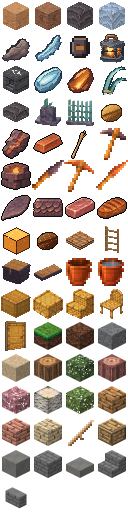
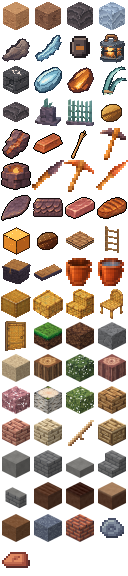
Orvalis em voxel: solo de cultivo e cerâmica do pacote Texturas16px (v0.178.0, E3, ADR 0111)
Seis blocos novos (terra arada seca e úmida, caminho, terra infértil, argila e tijolos) e dois itens sem bloco. As receitas são provisórias porque a enxada, a água do cultivo e a argila no terreno ainda não existem.

Claude-Session: https://claude.ai/code/session_01KGdgoniDf5SwPMM31qtkm2

diff --git a/src/titan/voxel.ts b/src/titan/voxel.ts
@@ -22,9 +22,9 @@ export const REGION_MIN = REGION_LEGACY.min;
 export const REGION_MAX = REGION_LEGACY.max;
 
 /** Ids de bloco (um byte; 0 = ar). */
-export const T = { AIR: 0, SAND: 1, DAMP_SAND: 2, DARK_ROCK: 3, FROST: 4, LAKE: 5, BEDROCK: 6, LANTERN: 7, VEIN_ROCK: 8, VEIN_FROST: 9, WORKBENCH: 10, EMBER: 11, SLAB: 12, WORKBENCH_90: 13, WORKBENCH_180: 14, WORKBENCH_270: 15, SLAB_TOP: 16, SLAB_DOUBLE: 17, MARCO: 18, MARCO_90: 19, MARCO_180: 20, MARCO_270: 21, PAINEL: 22, PAINEL_Z: 23, VEIN_COPPER: 24, BRAZIER: 25, BRAZIER_LIT: 26, CARAPACE: 27, EMBER_VEIN: 28, EMBER_BLOCK: 29, MAT: 30, LADDER: 31, LADDER_90: 32, LADDER_180: 33, LADDER_270: 34, CHEST: 35, CHEST_90: 36, CHEST_180: 37, CHEST_270: 38, BED: 39, BED_90: 40, BED_180: 41, BED_270: 42, BED_HEAD: 43, BED_HEAD_90: 44, BED_HEAD_180: 45, BED_HEAD_270: 46, REED_BLOCK: 47, REED_SLAB: 48, REED_SLAB_TOP: 49, REED_STAIR: 50, REED_STAIR_90: 51, REED_STAIR_180: 52, REED_STAIR_270: 53, REED_CHAIR: 54, REED_CHAIR_90: 55, REED_CHAIR_180: 56, REED_CHAIR_270: 57, DOOR: 58, DOOR_LAST: 89, GRASS: 90, DIRT: 91, STONE: 92, BEACH: 93, LOG_OAK: 94, LEAVES_OAK: 95, LOG_CHERRY: 96, LEAVES_CHERRY: 97, LOG_BIRCH: 98, LEAVES_BIRCH: 99, PLANKS_OAK: 100, PLANKS_CHERRY: 101, PLANKS_BIRCH: 102, CARPENTRY: 103, CARPENTRY_90: 104, CARPENTRY_180: 105, CARPENTRY_270: 106, STONE_SMOOTH: 107, STONE_BRICK: 108, STONE_SLAB: 109, STONE_SLAB_TOP: 110, STONE_STAIR: 111, STONE_STAIR_90: 112, STONE_STAIR_180: 113, STONE_STAIR_270: 114, STONE_WALL: 115, STONE_WALL_LAST: 130 } as const;
+export const T = { AIR: 0, SAND: 1, DAMP_SAND: 2, DARK_ROCK: 3, FROST: 4, LAKE: 5, BEDROCK: 6, LANTERN: 7, VEIN_ROCK: 8, VEIN_FROST: 9, WORKBENCH: 10, EMBER: 11, SLAB: 12, WORKBENCH_90: 13, WORKBENCH_180: 14, WORKBENCH_270: 15, SLAB_TOP: 16, SLAB_DOUBLE: 17, MARCO: 18, MARCO_90: 19, MARCO_180: 20, MARCO_270: 21, PAINEL: 22, PAINEL_Z: 23, VEIN_COPPER: 24, BRAZIER: 25, BRAZIER_LIT: 26, CARAPACE: 27, EMBER_VEIN: 28, EMBER_BLOCK: 29, MAT: 30, LADDER: 31, LADDER_90: 32, LADDER_180: 33, LADDER_270: 34, CHEST: 35, CHEST_90: 36, CHEST_180: 37, CHEST_270: 38, BED: 39, BED_90: 40, BED_180: 41, BED_270: 42, BED_HEAD: 43, BED_HEAD_90: 44, BED_HEAD_180: 45, BED_HEAD_270: 46, REED_BLOCK: 47, REED_SLAB: 48, REED_SLAB_TOP: 49, REED_STAIR: 50, REED_STAIR_90: 51, REED_STAIR_180: 52, REED_STAIR_270: 53, REED_CHAIR: 54, REED_CHAIR_90: 55, REED_CHAIR_180: 56, REED_CHAIR_270: 57, DOOR: 58, DOOR_LAST: 89, GRASS: 90, DIRT: 91, STONE: 92, BEACH: 93, LOG_OAK: 94, LEAVES_OAK: 95, LOG_CHERRY: 96, LEAVES_CHERRY: 97, LOG_BIRCH: 98, LEAVES_BIRCH: 99, PLANKS_OAK: 100, PLANKS_CHERRY: 101, PLANKS_BIRCH: 102, CARPENTRY: 103, CARPENTRY_90: 104, CARPENTRY_180: 105, CARPENTRY_270: 106, STONE_SMOOTH: 107, STONE_BRICK: 108, STONE_SLAB: 109, STONE_SLAB_TOP: 110, STONE_STAIR: 111, STONE_STAIR_90: 112, STONE_STAIR_180: 113, STONE_STAIR_270: 114, STONE_WALL: 115, STONE_WALL_LAST: 130, FARMLAND_DRY: 131, FARMLAND_WET: 132, PATH: 133, DIRT_INFERTILE: 134, CLAY_BLOCK: 135, BRICK_BLOCK: 136 } as const;
 /** Maior id de bloco (o carregamento do save descarta ids acima disto). */
-export const T_MAX = T.STONE_WALL_LAST;
+export const T_MAX = T.BRICK_BLOCK;
 export type TitanBlock = (typeof T)[keyof typeof T];
 
 export const BLOCK_NAMES: Record<number, string> = { 1: 'Areia ocre', 2: 'Areia úmida', 3: 'Rocha escura', 4: 'Gelo fosco', 5: 'Lago escuro', 6: 'Rocha-mãe', 7: 'Lanterna da margem', 8: 'Rocha com veio', 9: 'Gelo com veio', 10: 'Mesa de Trabalho', 11: 'Brasa de âmbar', 12: 'Laje de rocha', 13: 'Mesa de Trabalho', 14: 'Mesa de Trabalho', 15: 'Mesa de Trabalho', 16: 'Laje de rocha', 17: 'Laje dupla de rocha', 18: 'Marco de Margem', 19: 'Marco de Margem', 20: 'Marco de Margem', 21: 'Marco de Margem', 22: 'Painel de Junco', 23: 'Painel de Junco', 24: 'Veio de Cobre de Duna', 25: 'Braseiro de Rocha', 26: 'Braseiro de Rocha (aceso)', 27: 'Revestimento de Carapaça', 28: 'Veio de Âmbar', 29: 'Bloco de Âmbar Compactado', 30: 'Esteira de Junco', 31: 'Escada de Junco', 32: 'Escada de Junco', 33: 'Escada de Junco', 34: 'Escada de Junco', 35: 'Baú de Rocha e Junco', 36: 'Baú de Rocha e Junco', 37: 'Baú de Rocha e Junco', 38: 'Baú de Rocha e Junco', 39: 'Cama de Junco', 40: 'Cama de Junco', 41: 'Cama de Junco', 42: 'Cama de Junco', 43: 'Cama de Junco', 44: 'Cama de Junco', 45: 'Cama de Junco', 46: 'Cama de Junco', 47: 'Bloco de Junco', 48: 'Laje de Junco', 49: 'Laje de Junco', 50: 'Degrau de Junco', 51: 'Degrau de Junco', 52: 'Degrau de Junco', 53: 'Degrau de Junco', 54: 'Cadeira de Junco', 55: 'Cadeira de Junco', 56: 'Cadeira de Junco', 57: 'Cadeira de Junco' };
@@ -44,6 +44,8 @@ export const isCraftingTable = (id: number): boolean => isWorkbench(id) || isCar
 /** Pedra de obra do Orvalis em voxel (ADR 0108): Pedra Lisa, Tijolo de Pedra e a Laje de Pedra (inferior e superior; duas lajes na mesma célula viram a Pedra Lisa). */
 Object.assign(BLOCK_NAMES, { 107: 'Pedra Lisa', 108: 'Tijolo de Pedra', 109: 'Laje de Pedra', 110: 'Laje de Pedra', 111: 'Degrau de Pedra', 112: 'Degrau de Pedra', 113: 'Degrau de Pedra', 114: 'Degrau de Pedra' });
 for (let m = 0; m < 16; m++) BLOCK_NAMES[115 + m] = 'Mureta de Pedra';
+/** Solo de cultivo e cerâmica do Orvalis em voxel (ADR 0111): cubos inteiros. */
+Object.assign(BLOCK_NAMES, { 131: 'Terra Arada Seca', 132: 'Terra Arada Úmida', 133: 'Caminho de Terra', 134: 'Terra Infértil', 135: 'Bloco de Argila', 136: 'Bloco de Tijolos' });
 /** Folhas das árvores do Orvalis (cubo inteiro opaco por enquanto) e toras. */
 export const isLeaves = (id: number): boolean => id === T.LEAVES_OAK || id === T.LEAVES_CHERRY || id === T.LEAVES_BIRCH;
 export const isLog = (id: number): boolean => id === T.LOG_OAK || id === T.LOG_CHERRY || id === T.LOG_BIRCH;
@@ -313,6 +315,12 @@ BLOCK_TILES[T.STONE_SMOOTH] = ot('pedra-lisa');
 BLOCK_TILES[T.STONE_BRICK] = ot('tijolo-pedra');
 BLOCK_TILES[T.STONE_SLAB] = ot('laje-topo', 'laje-face', 'laje-topo'); // a lateral tem 16 × 8 e usa a metade de cima do tile
 BLOCK_TILES[T.STONE_SLAB_TOP] = BLOCK_TILES[T.STONE_SLAB];
+BLOCK_TILES[T.FARMLAND_DRY] = ot('terra-arada-seca-topo', 'terra-arada-seca-lateral', 'terra'); // solo de cultivo e cerâmica (ADR 0111)
+BLOCK_TILES[T.FARMLAND_WET] = ot('terra-arada-umida-topo', 'terra-arada-umida-lateral', 'terra');
+BLOCK_TILES[T.PATH] = ot('caminho-topo', 'caminho-lateral', 'terra');
+BLOCK_TILES[T.DIRT_INFERTILE] = ot('terra-infertil');
+BLOCK_TILES[T.CLAY_BLOCK] = ot('bloco-argila');
+BLOCK_TILES[T.BRICK_BLOCK] = ot('bloco-tijolos');
 for (let t = 0; t < 4; t++) BLOCK_TILES[T.CARPENTRY + t] = [tileIndex('orvalis/mesa-topo'), tileIndex('orvalis/mesa-lateral'), tileIndex('orvalis/tabua-carvalho')]; // a base é de tábuas; a frente tem tile próprio (`tileForFace`)
 // Família do Junco (ADR 0100): o bloco usa a trama nas seis faces; a laje, o topo de 32 × 32 e a lateral de 32 × 16 (metade de cima do tile)
 BLOCK_TILES[T.REED_BLOCK] = faces3('21-bloco-de-junco');

diff --git a/src/titan/items.ts b/src/titan/items.ts
@@ -4,7 +4,7 @@ import { BLOCK_NAMES, isCarpentry, isMarco, isPanel, isWorkbench, T } from './vo
  * Itens do Titã (ADR 0040). O id é o índice do sprite no atlas da hotbar + 1 (`render/art/titan.ts`): a ordem do atlas não depende da ordem dos espaços da barra.
  * Os quatro primeiros coincidem com os ids de bloco `T.SAND … T.FROST`.
  */
-export const Item = { SAND: 1, DAMP_SAND: 2, DARK_ROCK: 3, FROST: 4, ROCK_SHARD: 5, FROST_SHARD: 6, CAPSULE: 7, LANTERN: 8, WORKBENCH: 9, ICE_LENS: 10, EMBER: 11, GLASS_REED: 12, SLAB: 13, MARCO: 14, PAINEL: 15, NOZ: 16, COPPER_SHARD: 17, COPPER_INGOT: 18, DRY_REED: 19, STONE_PICK: 20, BRAZIER: 21, STONE_DAGGER: 22, COPPER_PICK: 23, COPPER_DAGGER: 24, PLATE: 25, CARAPACE: 26, RAW_MEAT: 27, COOKED_MEAT: 28, EMBER_BLOCK: 29, NOZ_TORRADA: 30, ESTEIRA: 31, ESCADA: 32, BAU: 33, CAMA: 34, BALDE: 35, BALDE_CHEIO: 36, BLOCO_JUNCO: 37, LAJE_JUNCO: 38, DEGRAU_JUNCO: 39, CADEIRA_JUNCO: 40, PORTA_JUNCO: 41, GRASS: 42, DIRT: 43, STONE: 44, BEACH: 45, LOG_OAK: 46, LEAVES_OAK: 47, LOG_CHERRY: 48, LEAVES_CHERRY: 49, LOG_BIRCH: 50, LEAVES_BIRCH: 51, TABUA_CARVALHO: 52, TABUA_CEREJEIRA: 53, TABUA_BETULA: 54, HASTE: 55, MESA_CARPINTARIA: 56, PEDRA_LISA: 57, TIJOLO_PEDRA: 58, LAJE_PEDRA: 59, DEGRAU_PEDRA: 60, MURETA_PEDRA: 61 } as const;
+export const Item = { SAND: 1, DAMP_SAND: 2, DARK_ROCK: 3, FROST: 4, ROCK_SHARD: 5, FROST_SHARD: 6, CAPSULE: 7, LANTERN: 8, WORKBENCH: 9, ICE_LENS: 10, EMBER: 11, GLASS_REED: 12, SLAB: 13, MARCO: 14, PAINEL: 15, NOZ: 16, COPPER_SHARD: 17, COPPER_INGOT: 18, DRY_REED: 19, STONE_PICK: 20, BRAZIER: 21, STONE_DAGGER: 22, COPPER_PICK: 23, COPPER_DAGGER: 24, PLATE: 25, CARAPACE: 26, RAW_MEAT: 27, COOKED_MEAT: 28, EMBER_BLOCK: 29, NOZ_TORRADA: 30, ESTEIRA: 31, ESCADA: 32, BAU: 33, CAMA: 34, BALDE: 35, BALDE_CHEIO: 36, BLOCO_JUNCO: 37, LAJE_JUNCO: 38, DEGRAU_JUNCO: 39, CADEIRA_JUNCO: 40, PORTA_JUNCO: 41, GRASS: 42, DIRT: 43, STONE: 44, BEACH: 45, LOG_OAK: 46, LEAVES_OAK: 47, LOG_CHERRY: 48, LEAVES_CHERRY: 49, LOG_BIRCH: 50, LEAVES_BIRCH: 51, TABUA_CARVALHO: 52, TABUA_CEREJEIRA: 53, TABUA_BETULA: 54, HASTE: 55, MESA_CARPINTARIA: 56, PEDRA_LISA: 57, TIJOLO_PEDRA: 58, LAJE_PEDRA: 59, DEGRAU_PEDRA: 60, MURETA_PEDRA: 61, TERRA_ARADA_SECA: 62, TERRA_ARADA_UMIDA: 63, CAMINHO_TERRA: 64, TERRA_INFERTIL: 65, BLOCO_ARGILA: 66, BLOCO_TIJOLOS: 67, BOLA_ARGILA: 68, TIJOLO: 69 } as const;
 export type ItemId = (typeof Item)[keyof typeof Item];
 
 export const ITEM_NAMES: Record<number, string> = {
@@ -12,15 +12,16 @@ export const ITEM_NAMES: Record<number, string> = {
   5: 'Fragmento de rocha', 6: 'Fragmento de gelo', 7: 'Cápsula de luz', 8: 'Lanterna da margem', 9: 'Mesa de Trabalho', 10: 'Lente de Gelo', 11: 'Brasa de âmbar', 12: 'Junco de vidro', 13: 'Laje de rocha', 14: 'Marco de Margem', 15: 'Painel de Junco', 16: 'Noz de Duna', 17: 'Fragmento de Cobre de Duna', 18: 'Lingote de Cobre de Duna', 19: 'Haste Seca de Junco', 20: 'Picareta de Rocha', 21: 'Braseiro de Rocha', 22: 'Adaga de Rocha', 23: 'Picareta de Cobre', 24: 'Adaga de Cobre', 25: 'Placa de Carapaça', 26: 'Revestimento de Carapaça', 27: 'Carne Crua de Farejador', 28: 'Carne Assada de Farejador', 29: 'Bloco de Âmbar Compactado', 30: 'Noz Torrada', 31: 'Esteira de Junco', 32: 'Escada de Junco', 33: 'Baú de Rocha e Junco', 34: 'Cama de Junco', 35: 'Balde de Cobre', 36: 'Balde de Cobre (cheio)', 37: 'Bloco de Junco', 38: 'Laje de Junco', 39: 'Degrau de Junco', 40: 'Cadeira de Junco', 41: 'Porta de Junco',
 };
 /** Itens-bloco do Orvalis em voxel (ADR 0105, ids 42–51): o item é o próprio bloco (mesma ordem de `T.GRASS … T.LEAVES_BIRCH`). */
-export const ORVALIS_ITEM_BLOCKS: Readonly<Record<number, number>> = { [Item.GRASS]: T.GRASS, [Item.DIRT]: T.DIRT, [Item.STONE]: T.STONE, [Item.BEACH]: T.BEACH, [Item.LOG_OAK]: T.LOG_OAK, [Item.LEAVES_OAK]: T.LEAVES_OAK, [Item.LOG_CHERRY]: T.LOG_CHERRY, [Item.LEAVES_CHERRY]: T.LEAVES_CHERRY, [Item.LOG_BIRCH]: T.LOG_BIRCH, [Item.LEAVES_BIRCH]: T.LEAVES_BIRCH, [Item.TABUA_CARVALHO]: T.PLANKS_OAK, [Item.TABUA_CEREJEIRA]: T.PLANKS_CHERRY, [Item.TABUA_BETULA]: T.PLANKS_BIRCH, [Item.MESA_CARPINTARIA]: T.CARPENTRY, [Item.PEDRA_LISA]: T.STONE_SMOOTH, [Item.TIJOLO_PEDRA]: T.STONE_BRICK, [Item.LAJE_PEDRA]: T.STONE_SLAB };
+export const ORVALIS_ITEM_BLOCKS: Readonly<Record<number, number>> = { [Item.GRASS]: T.GRASS, [Item.DIRT]: T.DIRT, [Item.STONE]: T.STONE, [Item.BEACH]: T.BEACH, [Item.LOG_OAK]: T.LOG_OAK, [Item.LEAVES_OAK]: T.LEAVES_OAK, [Item.LOG_CHERRY]: T.LOG_CHERRY, [Item.LEAVES_CHERRY]: T.LEAVES_CHERRY, [Item.LOG_BIRCH]: T.LOG_BIRCH, [Item.LEAVES_BIRCH]: T.LEAVES_BIRCH, [Item.TABUA_CARVALHO]: T.PLANKS_OAK, [Item.TABUA_CEREJEIRA]: T.PLANKS_CHERRY, [Item.TABUA_BETULA]: T.PLANKS_BIRCH, [Item.MESA_CARPINTARIA]: T.CARPENTRY, [Item.PEDRA_LISA]: T.STONE_SMOOTH, [Item.TIJOLO_PEDRA]: T.STONE_BRICK, [Item.LAJE_PEDRA]: T.STONE_SLAB, [Item.TERRA_ARADA_SECA]: T.FARMLAND_DRY, [Item.TERRA_ARADA_UMIDA]: T.FARMLAND_WET, [Item.CAMINHO_TERRA]: T.PATH, [Item.TERRA_INFERTIL]: T.DIRT_INFERTILE, [Item.BLOCO_ARGILA]: T.CLAY_BLOCK, [Item.BLOCO_TIJOLOS]: T.BRICK_BLOCK };
 const ORVALIS_BLOCK_ITEMS: Readonly<Record<number, number>> = Object.fromEntries(Object.entries(ORVALIS_ITEM_BLOCKS).map(([item, block]) => [block, Number(item)]));
 for (const [item, block] of Object.entries(ORVALIS_ITEM_BLOCKS)) ITEM_NAMES[Number(item)] = BLOCK_NAMES[block];
+ITEM_NAMES[Item.BOLA_ARGILA] = 'Bola de Argila'; ITEM_NAMES[Item.TIJOLO] = 'Tijolo'; // itens sem bloco (ADR 0111)
 ITEM_NAMES[Item.MURETA_PEDRA] = 'Mureta de Pedra'; // a conexão vem dos vizinhos (ADR 0110)
 ITEM_NAMES[Item.DEGRAU_PEDRA] = 'Degrau de Pedra'; // sem entrada em ORVALIS_ITEM_BLOCKS: o giro vem do olhar (ADR 0109)
 ITEM_NAMES[Item.HASTE] = 'Haste de Madeira'; // item sem bloco (ADR 0107)
 /** Pilhas: blocos, fragmentos, lente e brasa até 64; cápsula (legada, id reservado), lanterna e mesa até 1 (a mesa 1 por espaço: é uma peça grande). */
 export const maxStack = (item: number): number => (item === Item.CAPSULE || item === Item.LANTERN || item === Item.WORKBENCH || isBucket(item) || isTool(item) ? 1 : 64);
-export const isItem = (n: unknown): n is ItemId => Number.isInteger(n) && (n as number) >= 1 && (n as number) <= 61;
+export const isItem = (n: unknown): n is ItemId => Number.isInteger(n) && (n as number) >= 1 && (n as number) <= 69;
 /** Balde de Cobre (ADR 0091): vazio recolhe uma célula do lago, cheio a despeja. Pergunte aqui, nunca compare ids soltos. */
 export const isBucket = (item: number | undefined | null): boolean => item === Item.BALDE || item === Item.BALDE_CHEIO;
 

diff --git a/src/titan/orvalis/solo.test.ts b/src/titan/orvalis/solo.test.ts
@@ -1,0 +1,75 @@
+import { describe, expect, it } from 'vitest';
+import { breakOrCollect, placeFromSlot } from '../actions';
+import { breakTotalMs } from '../breaking';
+import { sweep } from '../dropTestUtil';
+import { BAG, HOTBAR } from '../inventory';
+import { blockOfItem, isItem, Item, ITEM_NAMES, itemOfBlock } from '../items';
+import { craft, recipeById } from '../recipes';
+import { MemoryTitanStorage } from '../save';
+import { openSession } from '../session';
+import { surfaceOf } from '../sounds';
+import { BLOCK_NAMES, isFull, isSolid, T, tileFor } from '../voxel';
+import { ORVALIS_GENERATOR_VERSION, OrvalisGenerator, orvalisGeneratorFor } from './generator';
+
+/** Solo de cultivo e cerâmica do Orvalis em voxel (ADR 0111): cubos inteiros e receitas provisórias. */
+const open = () => openSession(new MemoryTitanStorage(), 42, () => 1, orvalisGeneratorFor, ORVALIS_GENERATOR_VERSION, (s, v) => new OrvalisGenerator(s, v));
+const slotOf = (s: Awaited<ReturnType<typeof open>>, item: number): number => [...Array(HOTBAR + BAG).keys()].find((i) => s.inventory.get(i)?.item === item) ?? -1;
+const PAIRS: ReadonlyArray<[number, number, string]> = [
+  [Item.TERRA_ARADA_SECA, T.FARMLAND_DRY, 'Terra Arada Seca'], [Item.TERRA_ARADA_UMIDA, T.FARMLAND_WET, 'Terra Arada Úmida'], [Item.CAMINHO_TERRA, T.PATH, 'Caminho de Terra'],
+  [Item.TERRA_INFERTIL, T.DIRT_INFERTILE, 'Terra Infértil'], [Item.BLOCO_ARGILA, T.CLAY_BLOCK, 'Bloco de Argila'], [Item.BLOCO_TIJOLOS, T.BRICK_BLOCK, 'Bloco de Tijolos'],
+];
+
+describe('solo de cultivo e cerâmica (ADR 0111)', () => {
+  it('ids 131–136 e itens 62–67 vão e voltam, com nome, cubo inteiro e tile próprio; 68 e 69 são itens sem bloco', () => {
+    expect(T.FARMLAND_DRY).toBe(131); expect(T.BRICK_BLOCK).toBe(136);
+    for (const [item, block, name] of PAIRS) {
+      expect(isItem(item)).toBe(true); expect(blockOfItem(item)).toBe(block); expect(itemOfBlock(block)).toBe(item);
+      expect(ITEM_NAMES[item]).toBe(name); expect(BLOCK_NAMES[block]).toBe(name);
+      expect(isSolid(block) && isFull(block)).toBe(true);
+      expect(tileFor(block, 'top')).toBeGreaterThanOrEqual(73); // tiles novos no fim do tiles.json
+    }
+    for (const item of [Item.BOLA_ARGILA, Item.TIJOLO]) { expect(isItem(item)).toBe(true); expect(blockOfItem(item)).toBeNull(); }
+    expect(ITEM_NAMES[Item.BOLA_ARGILA]).toBe('Bola de Argila'); expect(ITEM_NAMES[Item.TIJOLO]).toBe('Tijolo');
+    expect(isItem(69) && !isItem(70)).toBe(true);
+    // a arada e o caminho têm topo e lateral próprios; a infértil e os blocos de cerâmica, o mesmo tile nas faces
+    for (const b of [T.FARMLAND_DRY, T.FARMLAND_WET, T.PATH]) expect(tileFor(b, 'top')).not.toBe(tileFor(b, 'side'));
+    expect(tileFor(T.FARMLAND_DRY, 'top')).not.toBe(tileFor(T.FARMLAND_WET, 'top'));
+    for (const b of [T.DIRT_INFERTILE, T.CLAY_BLOCK, T.BRICK_BLOCK]) expect(tileFor(b, 'top')).toBe(tileFor(b, 'side'));
+  });
+
+  it('tempos e sons: solo e argila cedem como a terra; tijolos como a pedra', () => {
+    const sand = breakTotalMs('block', T.DIRT);
+    for (const b of [T.FARMLAND_DRY, T.FARMLAND_WET, T.PATH, T.DIRT_INFERTILE, T.CLAY_BLOCK]) { expect(breakTotalMs('block', b)).toBe(sand); expect(surfaceOf(b)).toBe('sand'); }
+    expect(breakTotalMs('block', T.BRICK_BLOCK)).toBe(breakTotalMs('block', T.STONE_BRICK)); expect(surfaceOf(T.BRICK_BLOCK)).toBe('rock');
+  });
+
+  it('receitas provisórias (mesa, só no Orvalis): terra → arada/caminho; arada seca → úmida; terra + areia → infértil; argila → tijolo → blocos', async () => {
+    const s = await open();
+    const inv = s.inventory;
+    inv.add(Item.DIRT, 8); inv.add(Item.BEACH, 4);
+    const make = (id: string): void => { expect(recipeById(id)!.world).toBe('orvalis'); expect(craft(inv, recipeById(id)!, 'workbench').ok).toBe(true); };
+    make('terra-arada-seca'); expect(inv.total(Item.TERRA_ARADA_SECA)).toBe(1);
+    make('terra-arada-umida'); expect(inv.total(Item.TERRA_ARADA_UMIDA)).toBe(1); expect(inv.total(Item.TERRA_ARADA_SECA)).toBe(0);
+    make('caminho-terra'); expect(inv.total(Item.CAMINHO_TERRA)).toBe(1);
+    make('terra-infertil'); expect(inv.total(Item.TERRA_INFERTIL)).toBe(2);
+    make('bola-argila'); make('bola-argila'); expect(inv.total(Item.BOLA_ARGILA)).toBe(4); expect(inv.total(Item.DIRT)).toBe(1);
+    make('bloco-argila'); expect(inv.total(Item.BLOCO_ARGILA)).toBe(1); expect(inv.total(Item.BOLA_ARGILA)).toBe(0);
+    inv.add(Item.BOLA_ARGILA, 4);
+    for (let i = 0; i < 4; i++) make('tijolo');
+    expect(inv.total(Item.TIJOLO)).toBe(4);
+    make('bloco-tijolos'); expect(inv.total(Item.BLOCO_TIJOLOS)).toBe(1);
+    expect(craft(inv, recipeById('tijolo')!, null)).toEqual({ ok: false, reason: 'station' });
+  });
+
+  it('no jogo: coloca e quebra cada bloco devolvendo o próprio item', async () => {
+    const s = await open(), a = s.volume.gen.arrival, cx = Math.floor(a.x) + 3, cz = Math.floor(a.z);
+    for (const [i, [item, block]] of PAIRS.entries()) {
+      s.inventory.add(item, 1);
+      const x = cx + i;
+      expect(placeFromSlot(s, { x, y: a.y - 1, z: cz, nx: 0, ny: 1, nz: 0 }, slotOf(s, item)).ok).toBe(true);
+      expect(s.volume.get(x, a.y, cz)).toBe(block);
+      expect(breakOrCollect(s, { x, y: a.y, z: cz, nx: 0, ny: 1, nz: 0 }).ok).toBe(true);
+      sweep(s); expect(s.inventory.total(item)).toBe(1);
+    }
+  });
+});

diff --git a/src/titan/titan.css b/src/titan/titan.css
@@ -28,7 +28,7 @@ body.titan #world { position: fixed; inset: 0; width: 100%; height: 100%; displa
 .titan-hurt { position: absolute; inset: 0; opacity: 0; pointer-events: none; background: radial-gradient(ellipse at center, rgba(150, 24, 24, 0) 38%, rgba(150, 24, 24, 0.6) 100%); }
 .titan-hurt.on { animation: titan-hurt 0.4s ease-out; }
 @keyframes titan-hurt { from { opacity: 1; } to { opacity: 0; } }
-.titan-icon { display: block; width: var(--ic); height: var(--ic); background-size: calc(var(--ic) * 4) calc(var(--ic) * 16); image-rendering: pixelated; pointer-events: none; }
+.titan-icon { display: block; width: var(--ic); height: var(--ic); background-size: calc(var(--ic) * 4) calc(var(--ic) * 18); image-rendering: pixelated; pointer-events: none; }
 .titan-slot .key { position: absolute; top: 2px; left: 3px; font: 700 10px ui-monospace, monospace; color: #f2cc93; text-shadow: 1px 1px #171410; pointer-events: none; }
 .titan-slot .count { position: absolute; right: 3px; bottom: 1px; font: 700 11px ui-monospace, monospace; font-style: normal; color: #fff3df; text-shadow: 1px 1px #171410; pointer-events: none; }
 .titan-craft { display: grid; gap: 6px; max-width: 200px; }
@@ -77,7 +77,7 @@ body.titan-aim-finger .titan-cross { display: none; } /* mira no dedo: sem cruze
 /* Bolsa e livro de receitas (ADR 0047): hotbar de 9 com ☰ fora dos espaços; grupos | receitas | grade de fabricação e item final (a bolsa é o último grupo) */
 .titan-hotbar { width: var(--hbw); box-sizing: border-box; justify-content: space-between; }
 .titan-hbmenu { position: absolute; left: calc(50% + var(--hbw) / 2 + 8px); bottom: var(--hbb); width: calc(var(--slot) + 14px); height: calc(var(--slot) + 14px); padding: 0; font-size: 22px; line-height: 1; pointer-events: auto; }
-.titan-icon.md { display: block; flex: none; width: var(--icm); height: var(--icm); background-size: calc(var(--icm) * 4) calc(var(--icm) * 16); }
+.titan-icon.md { display: block; flex: none; width: var(--icm); height: var(--icm); background-size: calc(var(--icm) * 4) calc(var(--icm) * 18); }
 .titan-panel { position: absolute; z-index: 5; left: 50%; transform: translateX(-50%); width: min(calc(100vw - 16px), 724px); box-sizing: border-box; bottom: calc(var(--hbb) + var(--slot) + 14px + 5px);
   height: min(calc(100vh - var(--hbb) - var(--slot) - 14px - 5px - max(6px, env(safe-area-inset-top))), 420px);
   display: flex; flex-direction: column; padding: 5px; overflow: hidden; background: #171c20f7; border: 1px solid #765943; border-radius: 6px; pointer-events: auto; touch-action: none; }
@@ -170,7 +170,7 @@ body.titan input { user-select: text; -webkit-user-select: text; }
 .titan-furnace .titan-fcol { display: inline-flex; flex-direction: column; align-items: center; gap: 3px; min-width: 0; }
 .titan-furnace .flabel { color: #cdb89a; font-size: 11px; white-space: nowrap; }
 .titan-furnace .titan-fslot { width: var(--fsz); height: var(--fsz); border-width: 2px; }
-.titan-furnace .titan-fslot .titan-icon { width: var(--icm); height: var(--icm); background-size: calc(var(--icm) * 4) calc(var(--icm) * 16); }
+.titan-furnace .titan-fslot .titan-icon { width: var(--icm); height: var(--icm); background-size: calc(var(--icm) * 4) calc(var(--icm) * 18); }
 .titan-furnace .titan-fslot .count { font-size: 12px; right: 4px; bottom: 2px; }
 .titan-furnace .titan-fslot.out { --icm: 64px; width: var(--fbig); height: var(--fbig); } /* o resultado em escala 2× (inteira) */
 .titan-furnace .titan-fslot.out .count { font-size: 14px; right: 5px; bottom: 3px; }
@@ -187,7 +187,7 @@ body.titan input { user-select: text; -webkit-user-select: text; }
 /* Bolsa e livro de receitas (ADR 0047): hotbar de 9 com ☰ fora dos espaços; grupos | receitas | grade de fabricação e item final (a bolsa é o último grupo) */
 .titan-hotbar { width: var(--hbw); box-sizing: border-box; justify-content: space-between; }
 .titan-hbmenu { position: absolute; left: calc(50% + var(--hbw) / 2 + 8px); bottom: var(--hbb); width: calc(var(--slot) + 14px); height: calc(var(--slot) + 14px); padding: 0; font-size: 22px; line-height: 1; pointer-events: auto; }
-.titan-icon.md { display: block; flex: none; width: var(--icm); height: var(--icm); background-size: calc(var(--icm) * 4) calc(var(--icm) * 16); }
+.titan-icon.md { display: block; flex: none; width: var(--icm); height: var(--icm); background-size: calc(var(--icm) * 4) calc(var(--icm) * 18); }
 .titan-panel { position: absolute; z-index: 5; left: 50%; transform: translateX(-50%); width: min(calc(100vw - 16px), 724px); box-sizing: border-box; bottom: calc(var(--hbb) + var(--slot) + 14px + 5px);
   height: min(calc(100vh - var(--hbb) - var(--slot) - 14px - 5px - max(6px, env(safe-area-inset-top))), 420px);
   display: flex; flex-direction: column; padding: 5px; overflow: hidden; background: #171c20f7; border: 1px solid #765943; border-radius: 6px; pointer-events: auto; touch-action: none; }

diff --git a/src/titan/recipes.ts b/src/titan/recipes.ts
@@ -58,6 +58,15 @@ export const RECIPES: readonly Recipe[] = [
   { id: 'tijolo-pedra', name: 'Tijolo de Pedra', group: 'construcao', result: { item: Item.TIJOLO_PEDRA, count: 4 }, ingredients: [{ item: Item.STONE, count: 4 }], station: 'workbench', world: 'orvalis' },
   { id: 'degrau-pedra', name: 'Degrau de Pedra', group: 'construcao', result: { item: Item.DEGRAU_PEDRA, count: 4 }, ingredients: [{ item: Item.PEDRA_LISA, count: 3 }], station: 'workbench', world: 'orvalis' },
   { id: 'mureta-pedra', name: 'Mureta de Pedra', group: 'construcao', result: { item: Item.MURETA_PEDRA, count: 6 }, ingredients: [{ item: Item.PEDRA_LISA, count: 6 }], station: 'workbench', world: 'orvalis' },
+  // Solo e cerâmica do Orvalis em voxel (ADR 0111): receitas PROVISÓRIAS até existirem a enxada/pá (E4), a água do cultivo (E5), a argila no terreno e a fundição
+  { id: 'terra-arada-seca', name: 'Terra Arada Seca', group: 'construcao', result: { item: Item.TERRA_ARADA_SECA, count: 1 }, ingredients: [{ item: Item.DIRT, count: 1 }], station: 'workbench', world: 'orvalis' },
+  { id: 'terra-arada-umida', name: 'Terra Arada Úmida', group: 'construcao', result: { item: Item.TERRA_ARADA_UMIDA, count: 1 }, ingredients: [{ item: Item.TERRA_ARADA_SECA, count: 1 }], station: 'workbench', world: 'orvalis' },
+  { id: 'caminho-terra', name: 'Caminho de Terra', group: 'construcao', result: { item: Item.CAMINHO_TERRA, count: 1 }, ingredients: [{ item: Item.DIRT, count: 1 }], station: 'workbench', world: 'orvalis' },
+  { id: 'terra-infertil', name: 'Terra Infértil', group: 'construcao', result: { item: Item.TERRA_INFERTIL, count: 2 }, ingredients: [{ item: Item.DIRT, count: 1 }, { item: Item.BEACH, count: 1 }], station: 'workbench', world: 'orvalis' },
+  { id: 'bola-argila', name: 'Bola de Argila', group: 'materiais', result: { item: Item.BOLA_ARGILA, count: 2 }, ingredients: [{ item: Item.DIRT, count: 2 }, { item: Item.BEACH, count: 1 }], station: 'workbench', world: 'orvalis' },
+  { id: 'tijolo', name: 'Tijolo', group: 'materiais', result: { item: Item.TIJOLO, count: 1 }, ingredients: [{ item: Item.BOLA_ARGILA, count: 1 }], station: 'workbench', world: 'orvalis' },
+  { id: 'bloco-argila', name: 'Bloco de Argila', group: 'construcao', result: { item: Item.BLOCO_ARGILA, count: 1 }, ingredients: [{ item: Item.BOLA_ARGILA, count: 4 }], station: 'workbench', world: 'orvalis' },
+  { id: 'bloco-tijolos', name: 'Bloco de Tijolos', group: 'construcao', result: { item: Item.BLOCO_TIJOLOS, count: 1 }, ingredients: [{ item: Item.TIJOLO, count: 4 }], station: 'workbench', world: 'orvalis' },
   { id: 'laje-pedra', name: 'Laje de Pedra', group: 'construcao', result: { item: Item.LAJE_PEDRA, count: 6 }, ingredients: [{ item: Item.PEDRA_LISA, count: 3 }], station: 'workbench', world: 'orvalis' },
 ];
 export const recipeById = (id: string): Recipe | undefined => RECIPES.find((r) => r.id === id);

diff --git a/src/titan/orvalis/pedraObra.test.ts b/src/titan/orvalis/pedraObra.test.ts
@@ -38,7 +38,7 @@ describe('pedra de obra (ADR 0108)', () => {
     expect(blockOfItem(Item.TIJOLO_PEDRA)).toBe(T.STONE_BRICK); expect(itemOfBlock(T.STONE_BRICK)).toBe(Item.TIJOLO_PEDRA);
     expect(blockOfItem(Item.LAJE_PEDRA)).toBe(T.STONE_SLAB); expect(itemOfBlock(T.STONE_SLAB)).toBe(Item.LAJE_PEDRA); expect(itemOfBlock(T.STONE_SLAB_TOP)).toBe(Item.LAJE_PEDRA);
     for (const [i, n] of [[Item.PEDRA_LISA, 'Pedra Lisa'], [Item.TIJOLO_PEDRA, 'Tijolo de Pedra'], [Item.LAJE_PEDRA, 'Laje de Pedra']] as const) { expect(isItem(i)).toBe(true); expect(ITEM_NAMES[i]).toBe(n); }
-    expect(isItem(62)).toBe(false);
+    expect(isItem(70)).toBe(false);
     expect(isFull(T.STONE_SMOOTH) && isFull(T.STONE_BRICK)).toBe(true);
     expect(isSlab(T.STONE_SLAB) && isSlab(T.STONE_SLAB_TOP) && !isFull(T.STONE_SLAB)).toBe(true);
     expect(blockSpan(T.STONE_SLAB)).toEqual([0, 0.5]); expect(blockSpan(T.STONE_SLAB_TOP)).toEqual([0.5, 1]);
@@ -92,7 +92,7 @@ describe('degrau de pedra (ADR 0109)', () => {
     }
     expect(modelOf(T.REED_STAIR)).toEqual({ kind: 'degrau', turn: 0 }); // o de junco segue com o modelo dele
     expect(blockOfItem(Item.DEGRAU_PEDRA)).toBe(T.STONE_STAIR); expect(ITEM_NAMES[Item.DEGRAU_PEDRA]).toBe('Degrau de Pedra');
-    expect(isItem(Item.DEGRAU_PEDRA) && !isItem(62)).toBe(true);
+    expect(isItem(Item.DEGRAU_PEDRA) && !isItem(70)).toBe(true);
   });
 
   it('receita: 3 Pedra Lisa → 4 Degraus (na mesa, só no Orvalis); colocar gira para o jogador e quebrar devolve 1', async () => {
@@ -127,7 +127,7 @@ describe('mureta de pedra (ADR 0110)', () => {
       expect(itemOfBlock(id)).toBe(Item.MURETA_PEDRA); expect(surfaceOf(id)).toBe('rock'); expect(breakTotalMs('block', id)).toBe(1000);
     }
     expect(blockBoxes(wallId(0))).toHaveLength(1); expect(blockBoxes(wallId(15))).toHaveLength(5); // poste e braços
-    expect(blockOfItem(Item.MURETA_PEDRA)).toBe(T.STONE_WALL); expect(ITEM_NAMES[Item.MURETA_PEDRA]).toBe('Mureta de Pedra'); expect(isItem(61) && !isItem(62)).toBe(true);
+    expect(blockOfItem(Item.MURETA_PEDRA)).toBe(T.STONE_WALL); expect(ITEM_NAMES[Item.MURETA_PEDRA]).toBe('Mureta de Pedra'); expect(isItem(69) && !isItem(70)).toBe(true);
     for (let m = 0; m < 16; m++) { const d = wallModelData(m); expect(d.idx.length / 3).toBe(d.pos.length / 3 / 2); expect(d.uv.every((v) => v >= 0 && v <= 1)).toBe(true); }
     expect(wallModelData(0).idx.length / 6).toBe(5); // o poste sozinho: topo e 4 laterais
     expect(wallModelData(WALL_E | WALL_W).idx.length / 6).toBeLessThan(wallModelData(0).idx.length / 6 + 10);

diff --git a/src/titan/texturas.ts b/src/titan/texturas.ts
@@ -11,11 +11,11 @@ import { BLOCK_NAMES, inRegion, REGION_V6, type Region, T, tileFor } from './vox
 
 /** Fileiras da vitrine, da esquerda para a direita: o Orvalis em voxel e o terreno do Titã (cubos inteiros e a laje de rocha). */
 export const ORVALIS_ROW: readonly number[] = [T.GRASS, T.DIRT, T.STONE, T.BEACH, T.LOG_OAK, T.LEAVES_OAK, T.LOG_CHERRY, T.LEAVES_CHERRY, T.LOG_BIRCH, T.LEAVES_BIRCH];
-export const ORVALIS_ROW2: readonly number[] = [T.PLANKS_OAK, T.PLANKS_CHERRY, T.PLANKS_BIRCH, T.CARPENTRY, T.STONE_SMOOTH, T.STONE_BRICK, T.STONE_SLAB, T.STONE_STAIR]; // madeira e pedra de obra (ADR 0107, 0108, 0109)
+export const ORVALIS_ROW2: readonly number[] = [T.PLANKS_OAK, T.PLANKS_CHERRY, T.PLANKS_BIRCH, T.CARPENTRY, T.STONE_SMOOTH, T.STONE_BRICK, T.STONE_SLAB, T.STONE_STAIR, T.FARMLAND_DRY, T.FARMLAND_WET, T.PATH, T.DIRT_INFERTILE, T.CLAY_BLOCK, T.BRICK_BLOCK]; // madeira e pedra de obra (ADR 0107, 0108, 0109, 0111)
 export const TITAN_ROW: readonly number[] = [T.SAND, T.DAMP_SAND, T.DARK_ROCK, T.FROST, T.VEIN_ROCK, T.VEIN_FROST, T.VEIN_COPPER, T.EMBER, T.CARAPACE, T.EMBER_VEIN, T.EMBER_BLOCK, T.REED_BLOCK, T.SLAB];
 export const ROWS: ReadonlyArray<{ z0: number; blocks: readonly number[]; label: string }> = [
   { z0: 0, blocks: ORVALIS_ROW, label: 'Fila 1 (Orvalis: terreno e árvores)' },
-  { z0: 10, blocks: ORVALIS_ROW2, label: 'Fila 2 (Orvalis: madeira e pedra)' },
+  { z0: 10, blocks: ORVALIS_ROW2, label: 'Fila 2 (Orvalis: madeira, pedra, solo e cerâmica)' },
   { z0: 20, blocks: TITAN_ROW, label: 'Fila 3 (Titã)' },
 ];
 /** Distância entre blocos no eixo X, início da fileira e piscina de água (x, z, lado). */

diff --git a/src/titan/sounds.ts b/src/titan/sounds.ts
@@ -11,6 +11,8 @@ export function surfaceOf(block: number | undefined): SurfaceMaterial | null {
   if (block !== undefined && isWall(block)) return 'rock'; // mureta de pedra (ADR 0110)
   if (block !== undefined && block >= T.DOOR && block <= T.DOOR_LAST) return 'sand'; // a porta de junco soa como o resto do junco (ADR 0102)
   switch (block) {
+    case T.FARMLAND_DRY: case T.FARMLAND_WET: case T.PATH: case T.DIRT_INFERTILE: case T.CLAY_BLOCK: return 'sand'; // ADR 0111: sem timbre próprio ainda
+    case T.BRICK_BLOCK: return 'rock';
     case T.GRASS: case T.DIRT: case T.BEACH: case T.LEAVES_OAK: case T.LEAVES_CHERRY: case T.LEAVES_BIRCH: return 'sand'; // Orvalis em voxel (ADR 0105): sem timbre próprio ainda; terra, areia e folhas soam como areia
     case T.STONE_STAIR: case T.STONE_STAIR_90: case T.STONE_STAIR_180: case T.STONE_STAIR_270: case T.STONE_SMOOTH: case T.STONE_BRICK: case T.STONE_SLAB: case T.STONE_SLAB_TOP: case T.STONE: case T.LOG_OAK: case T.LOG_CHERRY: case T.LOG_BIRCH: case T.PLANKS_OAK: case T.PLANKS_CHERRY: case T.PLANKS_BIRCH: case T.CARPENTRY: case T.CARPENTRY_90: case T.CARPENTRY_180: case T.CARPENTRY_270: return 'rock'; // a tora ainda soa como rocha (falta o som de madeira)
     case T.SAND: case T.DAMP_SAND: case T.REED_BLOCK: case T.REED_SLAB: case T.REED_SLAB_TOP: case T.REED_STAIR: case T.REED_STAIR_90: case T.REED_STAIR_180: case T.REED_STAIR_270: case T.REED_CHAIR: case T.REED_CHAIR_90: case T.REED_CHAIR_180: case T.REED_CHAIR_270: case T.PAINEL: case T.PAINEL_Z: case T.MAT: case T.LADDER: case T.LADDER_90: case T.LADDER_180: case T.LADDER_270: return 'sand';

diff --git a/src/titan/breaking.ts b/src/titan/breaking.ts
@@ -35,6 +35,9 @@ function baseBreakMs(block?: number): number | null {
   if (block !== undefined && block >= T.DOOR && block <= T.DOOR_LAST) return BREAK_MS.slab; // a porta cede como os móveis de junco (ADR 0102)
   switch (block) {
     case T.GRASS: case T.DIRT: case T.BEACH: return BREAK_MS.sand; // Orvalis em voxel (ADR 0105): terra, grama e areia da praia cedem como a areia
+    case T.PATH: case T.DIRT_INFERTILE: case T.FARMLAND_DRY: case T.FARMLAND_WET: return BREAK_MS.sand; // solo: cede como a terra (ADR 0111)
+    case T.CLAY_BLOCK: return BREAK_MS.sand;
+    case T.BRICK_BLOCK: return BREAK_MS.rock;
     case T.STONE: case T.STONE_SMOOTH: case T.STONE_BRICK: return BREAK_MS.rock; // pedra de obra (ADR 0108)
     case T.STONE_SLAB: case T.STONE_SLAB_TOP: case T.STONE_STAIR: case T.STONE_STAIR_90: case T.STONE_STAIR_180: case T.STONE_STAIR_270: return BREAK_MS.slab;
     case T.LOG_OAK: case T.LOG_CHERRY: case T.LOG_BIRCH: case T.PLANKS_OAK: case T.PLANKS_CHERRY: case T.PLANKS_BIRCH: case T.CARPENTRY: case T.CARPENTRY_90: case T.CARPENTRY_180: case T.CARPENTRY_270: return BREAK_MS.wood; // tábuas e mesa (ADR 0107)

diff --git a/src/titan/margem.test.ts b/src/titan/margem.test.ts
@@ -29,7 +29,7 @@ describe('Marco de Margem e Painel de Junco: ids, modelos e regras (ADR 0058)', 
     expect(modelOf(T.PAINEL)).toEqual({ kind: 'painel', turn: 0 }); expect(modelOf(T.PAINEL_Z)).toEqual({ kind: 'painel', turn: 1 });
     expect(modelOf(T.DARK_ROCK)).toBeNull(); expect(blocksLight(T.DARK_ROCK)).toBe(true);
     expect(blockOfItem(Item.MARCO)).toBe(T.MARCO); expect(blockOfItem(Item.PAINEL)).toBe(T.PAINEL);
-    expect(isItem(Item.MARCO) && isItem(Item.PAINEL)).toBe(true); expect(isItem(40)).toBe(true); expect(isItem(62)).toBe(false);
+    expect(isItem(Item.MARCO) && isItem(Item.PAINEL)).toBe(true); expect(isItem(40)).toBe(true); expect(isItem(70)).toBe(false);
     expect(breakTotalMs('lantern', T.MARCO)).toBe(350); expect(breakTotalMs('block', T.PAINEL)).toBe(350);
     expect(surfaceOf(T.MARCO)).toBe('rock'); expect(surfaceOf(T.PAINEL)).toBe('sand');
   });

diff --git a/src/titan/mobilia.test.ts b/src/titan/mobilia.test.ts
@@ -24,7 +24,7 @@ const walk = (s: S, b: Body, dirX: number, dirZ: number, secs: number): number =
 describe('degrau e cadeira: regras do bloco', () => {
   it('ids 50–53 e 54–57 com o giro no id, itens 39 e 40, receitas na Mesa, modelo instanciado', () => {
     expect(T_MAX).toBeGreaterThanOrEqual(T.REED_CHAIR_270);
-    expect(isItem(Item.DEGRAU_JUNCO) && isItem(Item.CADEIRA_JUNCO) && isItem(Item.PORTA_JUNCO) && !isItem(62)).toBe(true);
+    expect(isItem(Item.DEGRAU_JUNCO) && isItem(Item.CADEIRA_JUNCO) && isItem(Item.PORTA_JUNCO) && !isItem(70)).toBe(true);
     for (let t = 0; t < 4; t++) {
       const s = stairId(t), c = chairId(t);
       expect(isStair(s) && isChair(c) && stairTurn(s) === t && chairTurn(c) === t).toBe(true);

diff --git a/src/titan/porta.test.ts b/src/titan/porta.test.ts
@@ -27,7 +27,7 @@ const put = (s: S, x: number, z: number, yaw = 0) => { s.yaw = yaw; if (s.invent
 describe('porta de junco: regras do bloco', () => {
   it('32 ids (giro, abertura, dobradiça, metade), sólidos que não são cubo, uma instância só na metade de baixo, item 41', () => {
     expect(T_MAX).toBeGreaterThanOrEqual(T.DOOR_LAST); // o Orvalis em voxel (ids 90–99, ADR 0105) vem depois das portas
-    expect(isItem(Item.PORTA_JUNCO) && !isItem(62)).toBe(true);
+    expect(isItem(Item.PORTA_JUNCO) && !isItem(70)).toBe(true);
     let n = 0;
     for (let t = 0; t < 4; t++) for (const hr of [false, true]) for (const op of [false, true]) for (const up of [false, true]) {
       const id = doorId(t, hr, op, up); n++;
